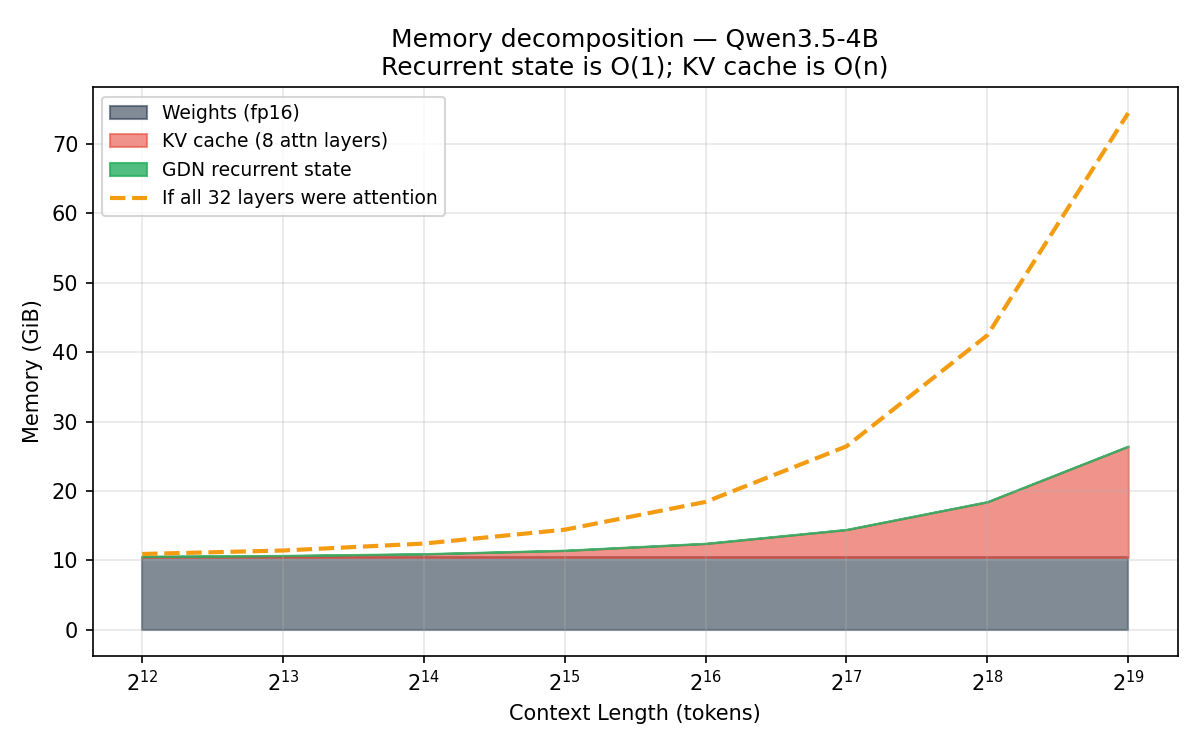
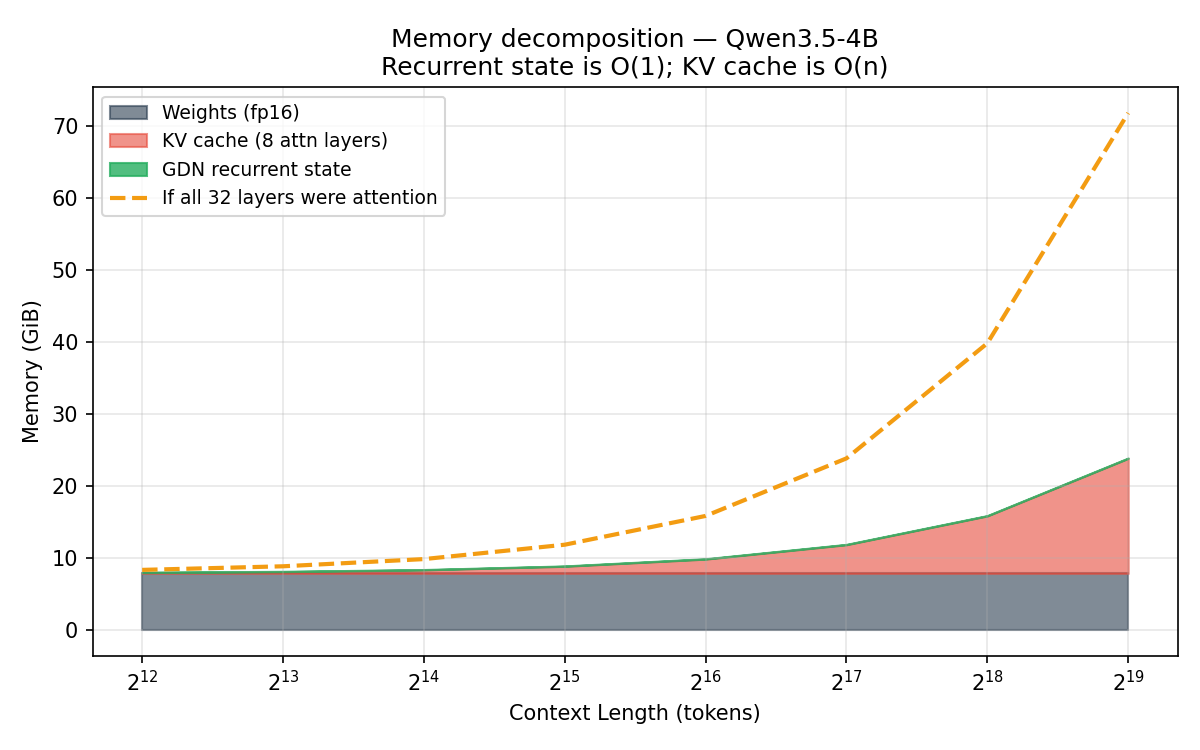
t3: fix stale memory weights in all figures — 10.42→7.83 GiB (ob-9t0.7)
LAYER_INFO intermediate_size corrected (12288→9216 for 4B, 4915→3584
for 0.8B) and tie_word_embeddings handling added to memory.py were
already committed; this regenerates all derived artifacts:
- memory_comparison.md: 4B weights 10.42→7.83 GiB, 0.8B added
- comparison_table.md: memory decomposition + decode bandwidth model
- 3 PNG figures regenerated from corrected model

diff --git a/results/figures/memory_comparison.md b/results/figures/memory_comparison.md
@@ -8,10 +8,10 @@ _24 GDN + 8 full-attention layers (3:1 hybrid), hidden_size=2560_
 
 | Context | Weights (fp16) | KV cache (8 attn) | GDN state | Total (hybrid) | If all-attn | Savings |
 |---------|----------------|-------------------|-----------|---------------|-------------|---------|
-| 4K | 10.42 GiB | 0.12 GiB | 51.0 MiB | 10.60 GiB | 10.92 GiB | 0.33 GiB |
-| 32K | 10.42 GiB | 1.00 GiB | 51.0 MiB | 11.47 GiB | 14.42 GiB | 2.95 GiB |
-| 128K | 10.42 GiB | 4.00 GiB | 51.0 MiB | 14.47 GiB | 26.42 GiB | 11.95 GiB |
-| 262K | 10.42 GiB | 8.00 GiB | 51.0 MiB | 18.47 GiB | 42.42 GiB | 23.95 GiB |
+| 4K | 7.83 GiB | 0.12 GiB | 51.0 MiB | 8.01 GiB | 8.33 GiB | 0.33 GiB |
+| 32K | 7.83 GiB | 1.00 GiB | 51.0 MiB | 8.88 GiB | 11.83 GiB | 2.95 GiB |
+| 128K | 7.83 GiB | 4.00 GiB | 51.0 MiB | 11.88 GiB | 23.83 GiB | 11.95 GiB |
+| 262K | 7.83 GiB | 8.00 GiB | 51.0 MiB | 15.88 GiB | 39.83 GiB | 23.95 GiB |
 
 ## Qwen3.5-0.8B
 
@@ -19,11 +19,11 @@ _18 GDN + 6 full-attention layers (3:1 hybrid), hidden_size=1024_
 
 | Context | Weights (fp16) | KV cache (8 attn) | GDN state | Total (hybrid) | If all-attn | Savings |
 |---------|----------------|-------------------|-----------|---------------|-------------|---------|
-| 4K | 2.06 GiB | 0.05 GiB | 19.7 MiB | 2.12 GiB | 2.25 GiB | 0.12 GiB |
-| 32K | 2.06 GiB | 0.38 GiB | 19.7 MiB | 2.45 GiB | 3.56 GiB | 1.11 GiB |
-| 128K | 2.06 GiB | 1.50 GiB | 19.7 MiB | 3.58 GiB | 8.06 GiB | 4.48 GiB |
-| 262K | 2.06 GiB | 3.00 GiB | 19.7 MiB | 5.08 GiB | 14.06 GiB | 8.98 GiB |
+| 4K | 1.40 GiB | 0.05 GiB | 19.7 MiB | 1.47 GiB | 1.59 GiB | 0.12 GiB |
+| 32K | 1.40 GiB | 0.38 GiB | 19.7 MiB | 1.80 GiB | 2.90 GiB | 1.11 GiB |
+| 128K | 1.40 GiB | 1.50 GiB | 19.7 MiB | 2.92 GiB | 7.40 GiB | 4.48 GiB |
+| 262K | 1.40 GiB | 3.00 GiB | 19.7 MiB | 4.42 GiB | 13.40 GiB | 8.98 GiB |
 
 ## Key insight
 
-At **262K context** on the 4B checkpoint, the GDN hybrid saves **24.0 GiB** versus a hypothetical all-attention model. The recurrent state is **51 MiB** regardless of context length, while the KV cache alone reaches **8.0 GiB** — 77% of the weight footprint.
+At **262K context** on the 4B checkpoint, the GDN hybrid saves **24.0 GiB** versus a hypothetical all-attention model. The recurrent state is **51 MiB** regardless of context length, while the KV cache alone reaches **8.0 GiB** — 102% of the weight footprint.

diff --git a/results/figures/comparison_table.md b/results/figures/comparison_table.md
@@ -153,15 +153,15 @@ _Regenerable: `python3 scripts/generate_memory_plots.py`. See [`memory_compariso
 
 | Context | Weights (GiB) | KV cache (GiB) | Recurrent state (MiB) | Total (GiB) | If all-attn (GiB) | Savings |
 |---:|---:|---:|---:|---:|---:|---:|
-| 4K | 10.42 | 0.12 | 51 | 10.60 | 10.92 | 0.33 GiB |
-| 32K | 10.42 | 1.00 | 51 | 11.47 | 14.42 | 2.95 GiB |
-| 128K | 10.42 | 4.00 | 51 | 14.47 | 26.42 | 11.95 GiB |
-| 262K | 10.42 | 8.00 | 51 | 18.47 | 42.42 | 23.95 GiB |
+| 4K | 7.83 | 0.12 | 51 | 8.01 | 8.33 | 0.33 GiB |
+| 32K | 7.83 | 1.00 | 51 | 8.88 | 11.83 | 2.95 GiB |
+| 128K | 7.83 | 4.00 | 51 | 11.88 | 23.83 | 11.95 GiB |
+| 262K | 7.83 | 8.00 | 51 | 15.88 | 39.83 | 23.95 GiB |
 
 ## Decode bandwidth model — Qwen3.5-4B at 100 GB/s (O6 stretch target)
 
 | Quant | Weight traffic/token | State traffic/token | Total | Ceiling tok/s |
 |---|---:|---:|---:|---:|
-| fp16 | 10.42 GiB | 51 MiB | 10.47 GiB | ≈9 |
-| INT8 | 5.21 GiB | 51 MiB | 5.26 GiB | ≈18 |
-| INT4 (W4A16) | 2.61 GiB | 51 MiB | 2.66 GiB | ≈35 |
+| fp16 | 7.83 GiB | 51 MiB | 7.88 GiB | ≈12 |
+| INT8 | 3.92 GiB | 51 MiB | 3.96 GiB | ≈23 |
+| INT4 (W4A16) | 1.96 GiB | 51 MiB | 2.01 GiB | ≈46 |
